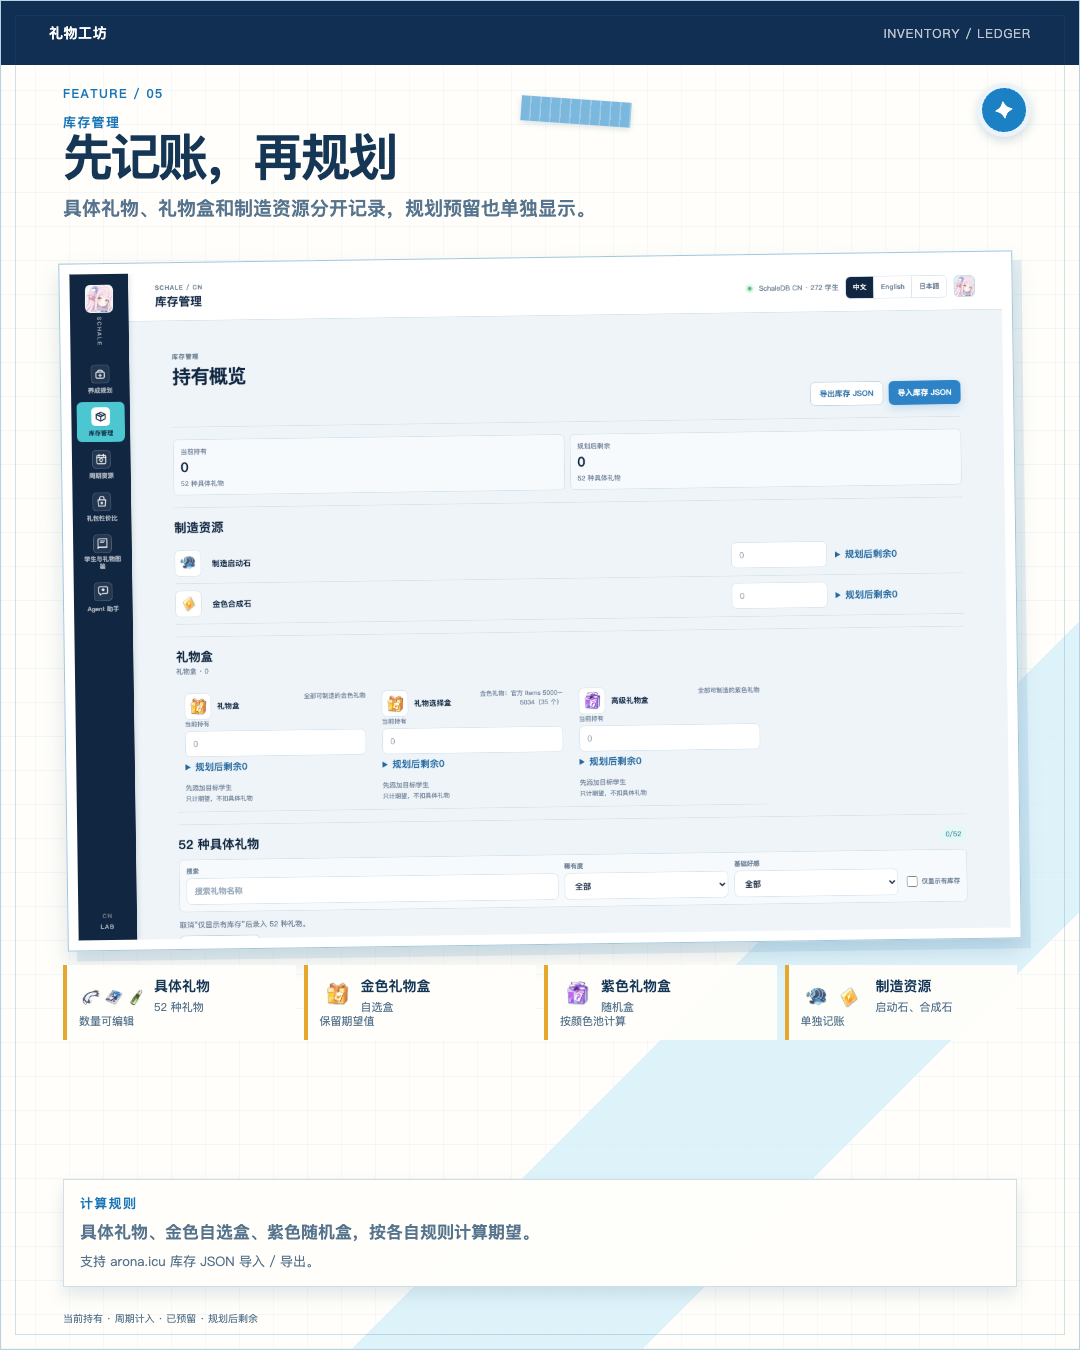
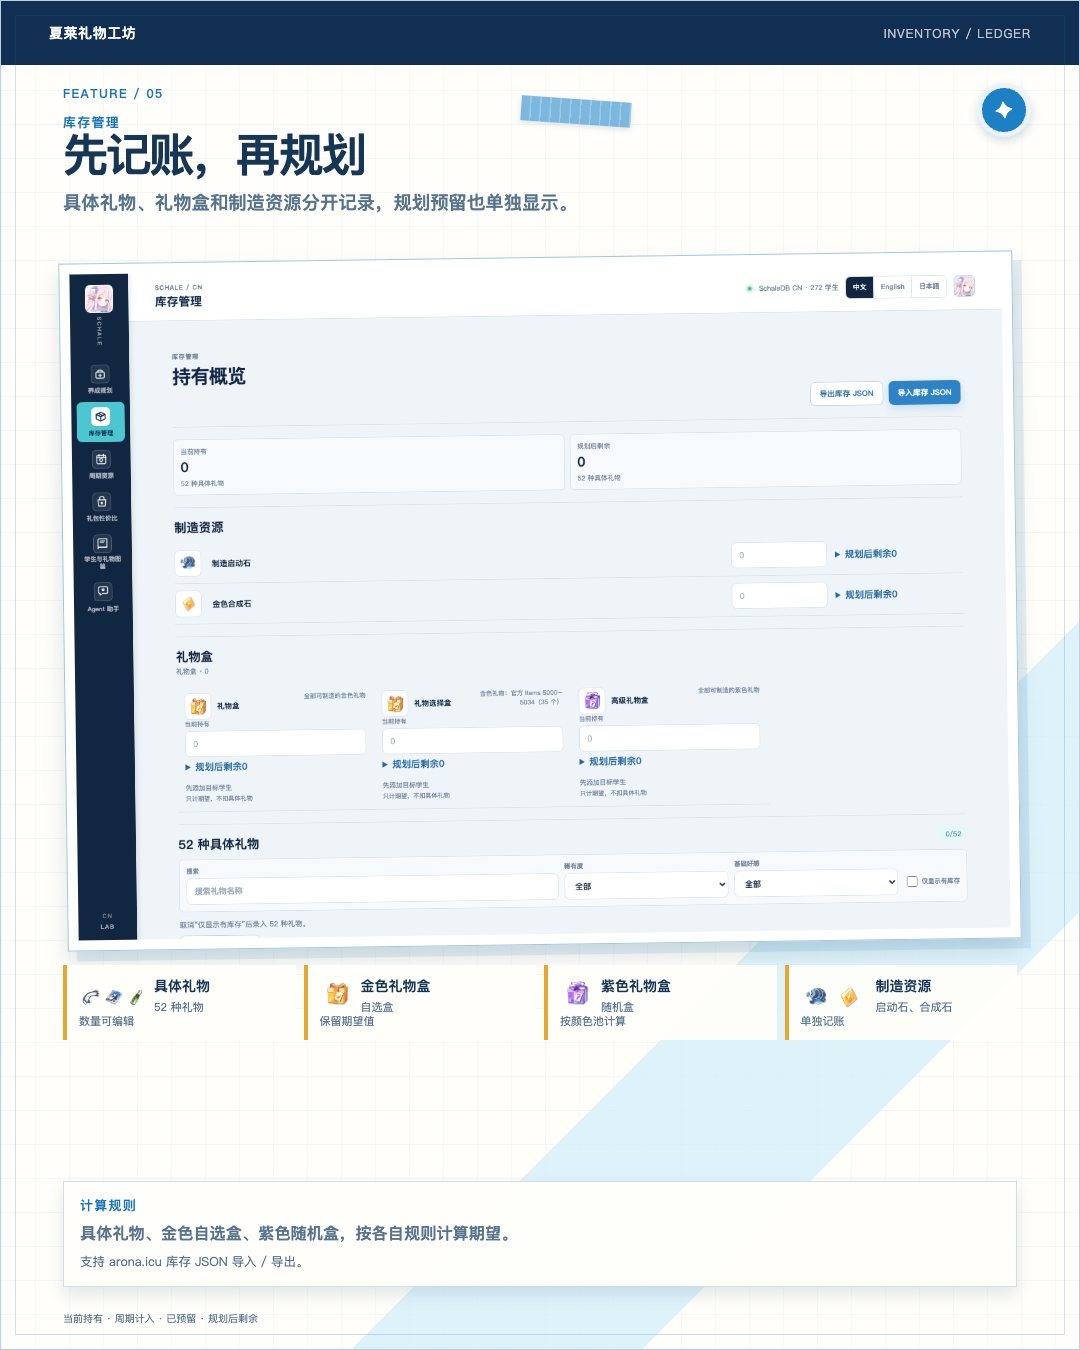
chore: restore schale project name

Changed region(s): [[0.0611, 0.0933, 0.5194, 0.1867], [0.0611, 0.8711, 0.4889, 0.9644], [0.0306, 0.0, 0.1222, 0.0311]]

diff --git a/docs/promotion/scrapbook/preview.html b/docs/promotion/scrapbook/preview.html
@@ -3,7 +3,7 @@
 <head>
   <meta charset="utf-8">
   <meta name="viewport" content="width=device-width, initial-scale=1">
-  <title>礼物工坊｜宣传图预览</title>
+  <title>夏莱礼物工坊｜宣传图预览</title>
   <style>
     :root {
       --navy: #102f52;
@@ -259,33 +259,33 @@
   </style>
 </head>
 <body>
-  <div class="intro"><strong>礼物工坊｜宣传图预览</strong>六张画布均为 4:5；真实页面截图负责展示功能，文字负责讲清楚“这是什么、怎么用、能得到什么”。 <a href="https://github.com/Tigermmd/schale-alchemy-workshop" target="_blank" rel="noreferrer">查看 GitHub 仓库</a></div>
+  <div class="intro"><strong>夏莱礼物工坊｜宣传图预览</strong>六张画布均为 4:5；真实页面截图负责展示功能，文字负责讲清楚“这是什么、怎么用、能得到什么”。 <a href="https://github.com/Tigermmd/schale-gift-workshop" target="_blank" rel="noreferrer">查看 GitHub 仓库</a></div>
   <main class="gallery">
     <div class="sheet-frame"><section class="sheet opening" id="opening">
       <img class="opening-image" src="opening-hero.png" alt="夏莱办公室与礼物规划主视觉">
       <div class="opening-wash"></div><div class="opening-topline">SCHALÉ / KIVOTOS</div><div class="opening-tag">OPENING / 01</div>
-      <div class="opening-copy"><p class="eyebrow">BLUE ARCHIVE · PLAYER TOOL</p><h1>礼物<br>工坊</h1><p class="opening-lead">给老师的礼物养成规划工具</p><div class="opening-rule"></div><p class="opening-meta">国服数据 · 中 / EN / 日</p></div>
+      <div class="opening-copy"><p class="eyebrow">BLUE ARCHIVE · PLAYER TOOL</p><h1>夏莱<br>礼物工坊</h1><p class="opening-lead">给老师的礼物养成规划工具</p><div class="opening-rule"></div><p class="opening-meta">国服数据 · 中 / EN / 日</p></div>
       <div class="opening-badge">GIFT<br>PLANNER</div><p class="opening-foot">非官方玩家工具 · 先看规划，再送礼物</p>
     </section></div>
     <div class="sheet-frame"><section class="sheet cover" id="cover">
-      <div class="topbar"><strong>礼物工坊</strong><span>BLUE ARCHIVE / PLAYER TOOL</span></div>
+      <div class="topbar"><strong>夏莱礼物工坊</strong><span>BLUE ARCHIVE / PLAYER TOOL</span></div>
       <div class="page-tag">INTRO / 02</div><span class="tape"></span><span class="sticker">✦</span>
       <div class="cover-intro"><p class="eyebrow">给老师的礼物养成工具</p><h1>把好感规划<br>变成清单</h1><p class="lead">导入库存，选定学生，直接看到好感缺口、礼物分配和预计天数。</p><div class="cover-label"><span class="label">国服数据</span><span class="label">本地运行</span><span class="label">中 / EN / 日</span></div></div>
       <div class="cover-shot"><img src="screens/relationship.png" alt="学生关系与制造页面截图"></div>
       <div class="paper cover-guide"><p class="eyebrow">从这里开始</p><p class="cover-guide-title">三步看懂“还差多少”</p><div class="cover-steps"><div class="cover-step"><b>01</b><strong>导入库存</strong><span>兼容 arona.icu JSON，也可手动编辑。</span></div><div class="cover-step"><b>02</b><strong>选择学生</strong><span>查看喜欢礼物和目标好感。</span></div><div class="cover-step"><b>03</b><strong>得到结果</strong><span>缺口、天数、资源来源一眼看清。</span></div></div></div>
-      <p class="cover-foot">非官方玩家工具 · 数据与素材来源见 README · <a href="https://github.com/Tigermmd/schale-alchemy-workshop" target="_blank" rel="noreferrer">GitHub / Tigermmd/schale-alchemy-workshop</a></p>
+      <p class="cover-foot">非官方玩家工具 · 数据与素材来源见 README · <a href="https://github.com/Tigermmd/schale-gift-workshop" target="_blank" rel="noreferrer">GitHub / Tigermmd/schale-gift-workshop</a></p>
     </section></div>
 
     <div class="sheet-frame"><section class="sheet feature codex" id="codex">
-      <div class="topbar"><strong>礼物工坊</strong><span>CODEX / BUILD LOG</span></div><div class="page-tag">BUILD / 03</div><span class="tape"></span><span class="sticker">⌁</span>
+      <div class="topbar"><strong>夏莱礼物工坊</strong><span>CODEX / BUILD LOG</span></div><div class="page-tag">BUILD / 03</div><span class="tape"></span><span class="sticker">⌁</span>
       <div class="feature-head"><p class="eyebrow">开发记录</p><h2>从第一行到最后一张图，都是 Codex</h2><p class="lead">数据整理、计算逻辑、界面、测试和宣传图，全部在 Codex 中完成。</p></div>
-      <div class="codex-board"><div class="codex-terminal"><div class="codex-terminal-bar"><i></i><span>schale-alchemy-workshop / build</span></div><div class="codex-terminal-body"><div class="codex-terminal-command">codex ship --project schale-alchemy-workshop</div><div class="codex-terminal-line"><b>RESEARCH</b><span>整理国服数据与礼物资料</span></div><div class="codex-terminal-line"><b>BUILD</b><span>实现规划、库存与 Agent 界面</span></div><div class="codex-terminal-line"><b>TEST</b><span>运行逻辑测试与浏览器验收</span></div><div class="codex-terminal-line"><b>DESIGN</b><span>制作六张宣传画布</span></div><div class="codex-terminal-line"><b>STATUS</b><span>ready to share <span class="codex-terminal-cursor" aria-hidden="true"></span></span></div></div></div><div class="codex-proof"><span class="codex-proof-mark">0</span><span class="codex-proof-label">人工代码</span><strong>全 Codex 开发</strong><small>代码、测试、界面、数据整理与宣传图，均由 Codex 完成。</small><div class="codex-stats"><div class="codex-stat"><strong>224</strong><span>对话轮次</span></div><div class="codex-stat"><strong>15.05亿</strong><span>累计 Token</span></div></div><p class="codex-stats-note">线程记录 · 2026.08.21</p></div></div>
+      <div class="codex-board"><div class="codex-terminal"><div class="codex-terminal-bar"><i></i><span>schale-gift-workshop / build</span></div><div class="codex-terminal-body"><div class="codex-terminal-command">codex ship --project schale-gift-workshop</div><div class="codex-terminal-line"><b>RESEARCH</b><span>整理国服数据与礼物资料</span></div><div class="codex-terminal-line"><b>BUILD</b><span>实现规划、库存与 Agent 界面</span></div><div class="codex-terminal-line"><b>TEST</b><span>运行逻辑测试与浏览器验收</span></div><div class="codex-terminal-line"><b>DESIGN</b><span>制作六张宣传画布</span></div><div class="codex-terminal-line"><b>STATUS</b><span>ready to share <span class="codex-terminal-cursor" aria-hidden="true"></span></span></div></div></div><div class="codex-proof"><span class="codex-proof-mark">0</span><span class="codex-proof-label">人工代码</span><strong>全 Codex 开发</strong><small>代码、测试、界面、数据整理与宣传图，均由 Codex 完成。</small><div class="codex-stats"><div class="codex-stat"><strong>224</strong><span>对话轮次</span></div><div class="codex-stat"><strong>15.05亿</strong><span>累计 Token</span></div></div><p class="codex-stats-note">线程记录 · 2026.08.21</p></div></div>
       <div class="codex-phases"><div class="codex-phase"><b>01 / RESEARCH</b><strong>调研</strong><span>数据与规则</span></div><div class="codex-phase"><b>02 / BUILD</b><strong>构建</strong><span>功能与界面</span></div><div class="codex-phase"><b>03 / TEST</b><strong>验证</strong><span>测试与回归</span></div><div class="codex-phase"><b>04 / SHIP</b><strong>交付</strong><span>图像与发布</span></div></div>
       <div class="paper feature-note"><p class="eyebrow">BUILD LOG</p><p class="lead">从数据整理到宣传图，开发全程由 Codex 完成。</p><p class="fine">打开项目即可看到代码、测试与本地运行入口。</p></div><p class="footer">CODEX-ONLY BUILD · 六张宣传画布</p>
     </section></div>
 
     <div class="sheet-frame"><section class="sheet feature planner" id="planner">
-      <div class="topbar"><strong>礼物工坊</strong><span>RELATIONSHIP PLANNER</span></div><div class="page-tag">FEATURE / 04</div><span class="tape"></span><span class="sticker">♡</span>
+      <div class="topbar"><strong>夏莱礼物工坊</strong><span>RELATIONSHIP PLANNER</span></div><div class="page-tag">FEATURE / 04</div><span class="tape"></span><span class="sticker">♡</span>
       <div class="feature-head"><p class="eyebrow">好感规划</p><h2>先看结论，再看明细</h2><p class="lead">目标、库存、免费资源统一计算；页面先告诉你缺口和天数。</p></div>
       <div class="screen"><img src="screens/relationship.png" alt="学生关系与制造页面截图"></div><img class="portrait" src="student-10122.webp" alt="学生头像"><img class="gift g1" src="gift-5000.webp" alt="礼物图标"><img class="gift g2" src="gift-5004.webp" alt="礼物图标">
       <div class="info-strip"><div class="info-card"><strong>好感缺口</strong><span>距离目标还差多少</span></div><div class="info-card"><strong>预计达成天数</strong><span>按免费资源日均收益估算</span></div><div class="info-card"><strong>礼物分配</strong><span>优先使用适合当前学生的礼物</span></div></div>
@@ -293,7 +293,7 @@
     </section></div>
 
     <div class="sheet-frame"><section class="sheet feature inventory" id="inventory">
-      <div class="topbar"><strong>礼物工坊</strong><span>INVENTORY / LEDGER</span></div><div class="page-tag">FEATURE / 05</div><span class="tape"></span><span class="sticker">✦</span>
+      <div class="topbar"><strong>夏莱礼物工坊</strong><span>INVENTORY / LEDGER</span></div><div class="page-tag">FEATURE / 05</div><span class="tape"></span><span class="sticker">✦</span>
       <div class="feature-head"><p class="eyebrow">库存管理</p><h2>先记账，再规划</h2><p class="lead">具体礼物、礼物盒和制造资源分开记录，规划预留也单独显示。</p></div>
       <div class="screen"><img src="screens/inventory.png" alt="库存管理页面截图"></div>
       <div class="info-strip"><div class="info-card"><span class="gift-icons" aria-hidden="true"><img src="gift-5000.webp" alt=""><img src="gift-5004.webp" alt=""><img src="gift-5013.webp" alt=""></span><strong>具体礼物</strong><span>52 种礼物<br>数量可编辑</span></div><div class="info-card"><img src="../../../assets/items/100008.webp" alt="金色礼物自选盒"><strong>金色礼物盒</strong><span>自选盒<br>保留期望值</span></div><div class="info-card"><img src="../../../assets/items/100009.webp" alt="紫色礼物随机盒"><strong>紫色礼物盒</strong><span>随机盒<br>按颜色池计算</span></div><div class="info-card"><span class="resource-icons" aria-hidden="true"><img src="../../../assets/items/3.webp" alt=""><img src="../../../assets/items/82.webp" alt=""></span><strong>制造资源</strong><span>启动石、合成石<br>单独记账</span></div></div>
@@ -301,7 +301,7 @@
     </section></div>
 
     <div class="sheet-frame"><section class="sheet feature agent" id="agent">
-      <div class="topbar"><strong>礼物工坊</strong><span>AGENT / CONVERSATION</span></div><div class="page-tag">FEATURE / 06</div><span class="tape"></span><span class="sticker">?</span>
+      <div class="topbar"><strong>夏莱礼物工坊</strong><span>AGENT / CONVERSATION</span></div><div class="page-tag">FEATURE / 06</div><span class="tape"></span><span class="sticker">?</span>
       <div class="feature-head"><p class="eyebrow">Agent 助手</p><h2>把问题直接说出来</h2><p class="lead">让它解释计算、比较方案、整理规划；应用之前，始终由你确认。</p></div>
       <div class="screen"><img src="screens/agent.png" alt="Agent 助手页面截图"></div>
       <div class="info-strip"><div class="info-card"><strong>你可以问</strong><div class="bubble user">这位学生还差多少好感？</div></div><div class="info-card"><strong>它会做</strong><div class="bubble answer">读取目标、库存和免费资源，解释计算。</div></div><div class="info-card"><strong>最后由你决定</strong><div class="bubble confirm">建议先展示，应用需确认。</div></div></div>

diff --git a/index.html b/index.html
@@ -4,7 +4,7 @@
     <meta charset="utf-8" />
     <meta name="viewport" content="width=device-width, initial-scale=1" />
     <meta name="theme-color" content="#11213b" />
-    <title>礼物工坊</title>
+    <title>夏莱礼物工坊</title>
     <link rel="icon" href="./favicon.svg" type="image/svg+xml" />
     <link rel="stylesheet" href="./styles.css?v=dashboard-20260819-schale-alchemy-workshop-agent-chat-v111" />
     <link rel="stylesheet" href="./agent.css?v=dashboard-20260819-schale-alchemy-workshop-agent-chat-v111&ui=v120" />
@@ -25,7 +25,7 @@
       </div>
       <main class="dashboard" id="dashboard" hidden>
         <aside class="app-rail" aria-label="工作区导航">
-          <div class="rail-brand" aria-label="礼物工坊">
+          <div class="rail-brand" aria-label="夏莱礼物工坊">
             <button class="brand-glyph" type="button" data-brand-avatar aria-haspopup="dialog" aria-controls="brand-avatar-dialog" aria-label="品牌头像" title="品牌头像"><span class="brand-avatar-fallback" aria-hidden="true">未</span></button>
             <span class="rail-brand-name">SCHALE</span>
           </div>

diff --git a/js/i18n.js b/js/i18n.js
@@ -11,7 +11,7 @@ const TEXT = {
     brandEyebrow: "SCHale",
     pageTitle: "养成规划工作台",
     headerKicker: "SCHALE / CN",
-    documentTitle: "礼物工坊",
+    documentTitle: "夏莱礼物工坊",
     loadingTitle: "正在加载数据",
     loadingDescription: "学生、礼物、制造数据",
     errorTitle: "数据载入失败",
@@ -454,7 +454,7 @@ const TEXT = {
     brandEyebrow: "SCHale",
     pageTitle: "Relationship Planner Workbench",
     headerKicker: "SCHALE / CN",
-    documentTitle: "Gift Workshop",
+    documentTitle: "Schale Gift Workshop",
     loadingTitle: "Loading data",
     loadingDescription: "Students, gifts, and manufacturing data",
     errorTitle: "Data load failed",
@@ -897,7 +897,7 @@ const TEXT = {
     brandEyebrow: "SCHale",
     pageTitle: "絆育成ワークベンチ",
     headerKicker: "SCHALE / CN",
-    documentTitle: "ギフト工房",
+    documentTitle: "シャーレギフト工房",
     loadingTitle: "データを読み込み中",
     loadingDescription: "生徒・贈り物・製造データ",
     errorTitle: "データの読み込みに失敗しました",

diff --git a/harness_server.py b/harness_server.py
@@ -444,7 +444,7 @@ class HarnessHandler(SimpleHTTPRequestHandler):
 def main() -> None:
     port = int(os.environ.get("SCHALE_HARNESS_PORT", str(DEFAULT_PORT)))
     server = ThreadingHTTPServer((HOST, port), HarnessHandler)
-    print(f"礼物工坊: http://{HOST}:{port}{DASHBOARD_PATH}", flush=True)
+    print(f"夏莱礼物工坊: http://{HOST}:{port}{DASHBOARD_PATH}", flush=True)
     print(f"Harness API: http://{HOST}:{port}/api/health", flush=True)
     try:
         server.serve_forever()

diff --git a/docs/promotion/launch-kit.md b/docs/promotion/launch-kit.md
@@ -1,14 +1,14 @@
-# 礼物工坊｜首发宣传包
+# 夏莱礼物工坊｜首发宣传包
 
 ## 主视觉
 
-![礼物工坊主视觉](assets/promo-hero.png)
+![夏莱礼物工坊主视觉](assets/promo-hero.png)
 
 ## 手帐滑动图（6 页 · 4:5）
 
-![礼物工坊开场主视觉](scrapbook/opening.png)
+![夏莱礼物工坊开场主视觉](scrapbook/opening.png)
 
-![礼物工坊封面](scrapbook/cover.png)
+![夏莱礼物工坊封面](scrapbook/cover.png)
 
 ![全 Codex 开发](scrapbook/codex.png)
 
@@ -22,10 +22,10 @@
 
 推荐配文：
 
-> 礼物工坊
+> 夏莱礼物工坊
 > 给蔚蓝档案玩家用的国服礼物 / 好感规划工具。
 > 导入库存，选定学生，直接看好感缺口和预计天数。
-> GitHub：<https://github.com/Tigermmd/schale-alchemy-workshop>
+> GitHub：<https://github.com/Tigermmd/schale-gift-workshop>
 
 ## 三张功能图
 
@@ -37,7 +37,7 @@
 
 标题：
 
-> 做了一个蔚蓝档案国服礼物好感规划工具：礼物工坊
+> 做了一个蔚蓝档案国服礼物好感规划工具：夏莱礼物工坊
 
 正文：
 
@@ -46,7 +46,7 @@
 > 按当前库存和免费资源预计需要多少天
 > 哪些礼物更适合优先使用
 > 支持中文、English、日本語，兼容 arona.icu 库存 JSON。
-> 项目地址：<https://github.com/Tigermmd/schale-alchemy-workshop>
+> 项目地址：<https://github.com/Tigermmd/schale-gift-workshop>
 > 本地运行，不需要注册账号。非官方玩家工具。
 
 配图顺序：开场主视觉 → 功能导入 → 全 Codex 开发 → 规划 → 库存 → Agent。
@@ -61,7 +61,7 @@
 
 分镜：
 
-1. 0～5 秒：展示开场主视觉，字幕“礼物工坊”。
+1. 0～5 秒：展示开场主视觉，字幕“夏莱礼物工坊”。
 2. 5～15 秒：导入 arona.icu 库存 JSON，字幕“库存不用重新录”。
 3. 15～30 秒：选择学生和目标等级，展示“好感缺口 / 预计达成天数”。
 4. 30～42 秒：切到库存页，展示礼物、礼物盒、预留和剩余分开记录。
@@ -70,16 +70,16 @@
 
 简介：
 
-> 礼物工坊：蔚蓝档案国服礼物与好感规划工具。
+> 夏莱礼物工坊：蔚蓝档案国服礼物与好感规划工具。
 > 导入库存 → 选择学生 → 看缺口和预计天数。
-> GitHub：<https://github.com/Tigermmd/schale-alchemy-workshop>
+> GitHub：<https://github.com/Tigermmd/schale-gift-workshop>
 
 ## 动态 / 短帖
 
 > 做了个《蔚蓝档案》礼物规划工具。
 > 导入库存，选目标学生，直接看还差多少好感、预计要多少天。
 > 还兼容 arona.icu 库存 JSON。
-> 礼物工坊：<https://github.com/Tigermmd/schale-alchemy-workshop>
+> 夏莱礼物工坊：<https://github.com/Tigermmd/schale-gift-workshop>
 
 ## 评论区固定回复
 
